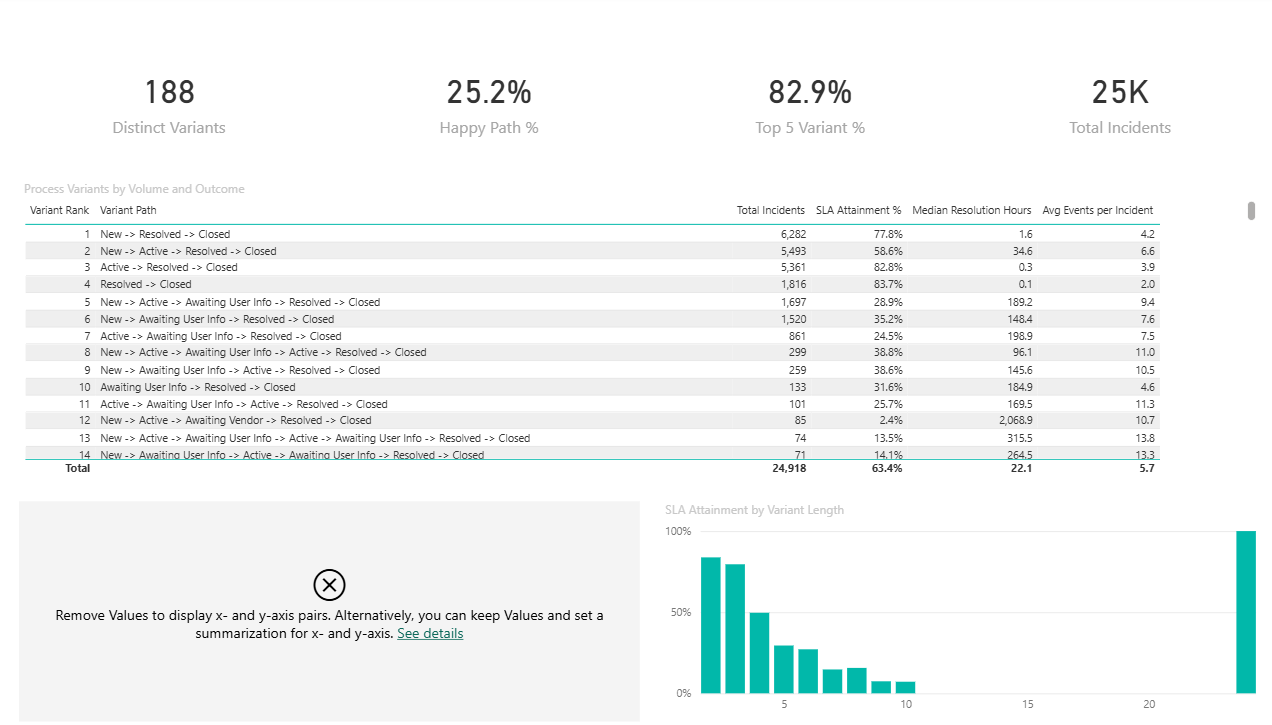
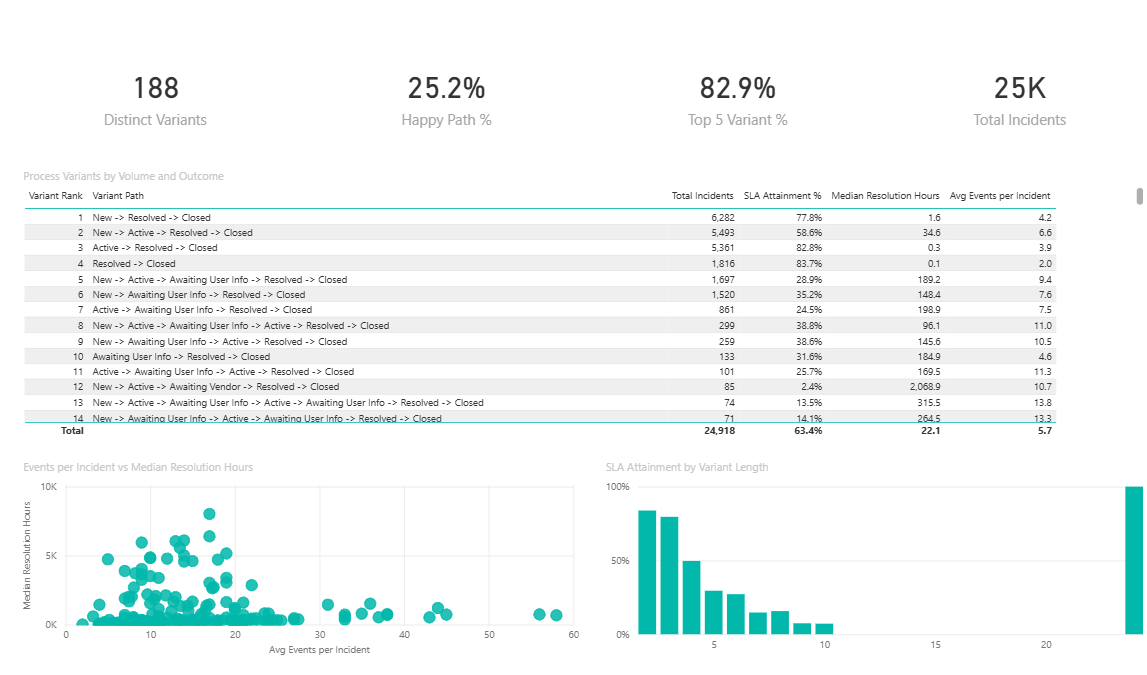
Add report screenshots to README

diff --git a/README.md b/README.md
@@ -179,7 +179,22 @@ folder.
 | 6. Time-Based Performance | Monthly, weekday and hour-of-day patterns |
 | 7. Incident Drill-through | Event-by-event trace of a single incident |
 
-Screenshots are in [`docs/images/`](docs/images/).
+### Executive Overview
+![Executive Overview](docs/images/01_executive.png)
+
+### Process Variants
+![Process Variants](docs/images/04_variants.png)
+
+<details>
+<summary>Other pages</summary>
+
+![Workflow Bottlenecks](docs/images/02_bottlenecks.png)
+![SLA & Operations](docs/images/03_sla.png)
+![Reassignment & Workload](docs/images/05_workload.png)
+![Time-Based Performance](docs/images/06_time.png)
+![Incident Drill-through](docs/images/07_drillthrough.png)
+
+</details>
 
 ---
 
